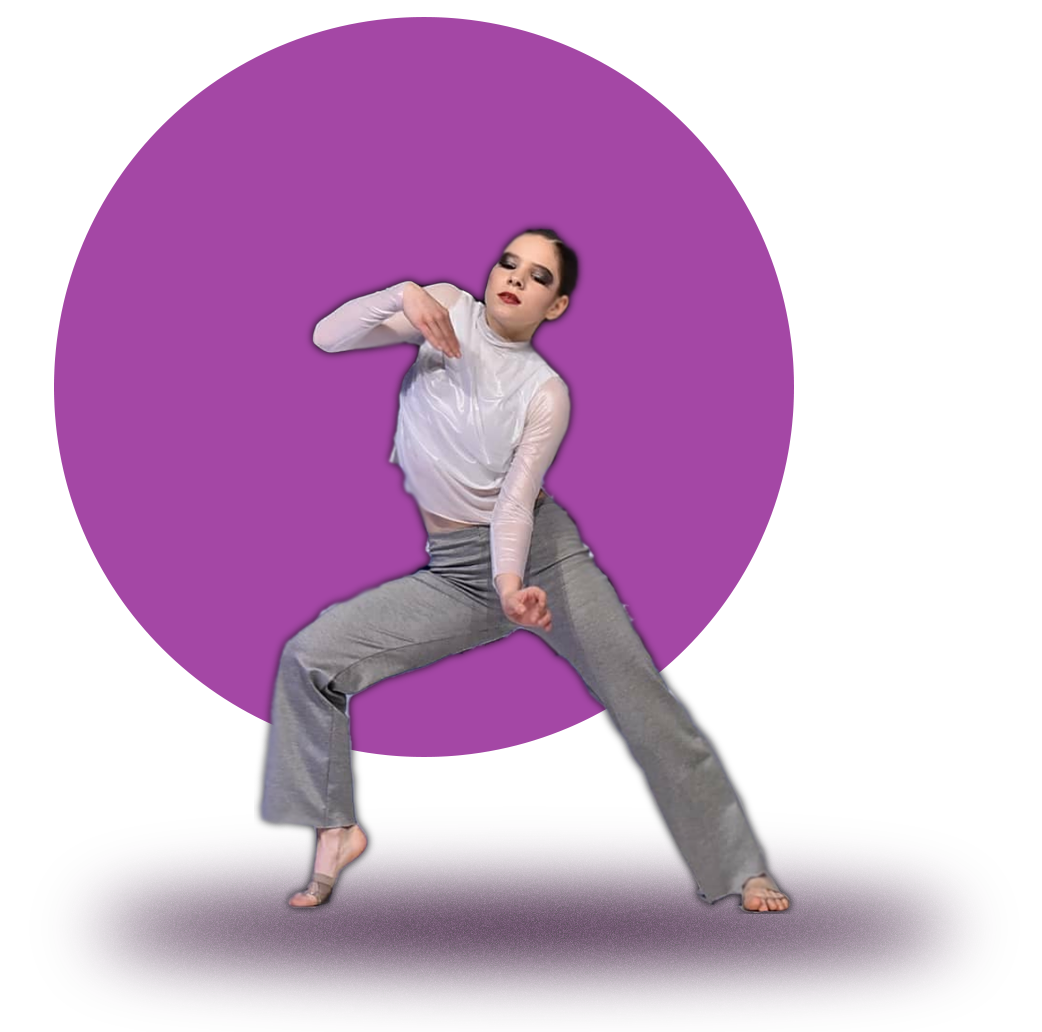
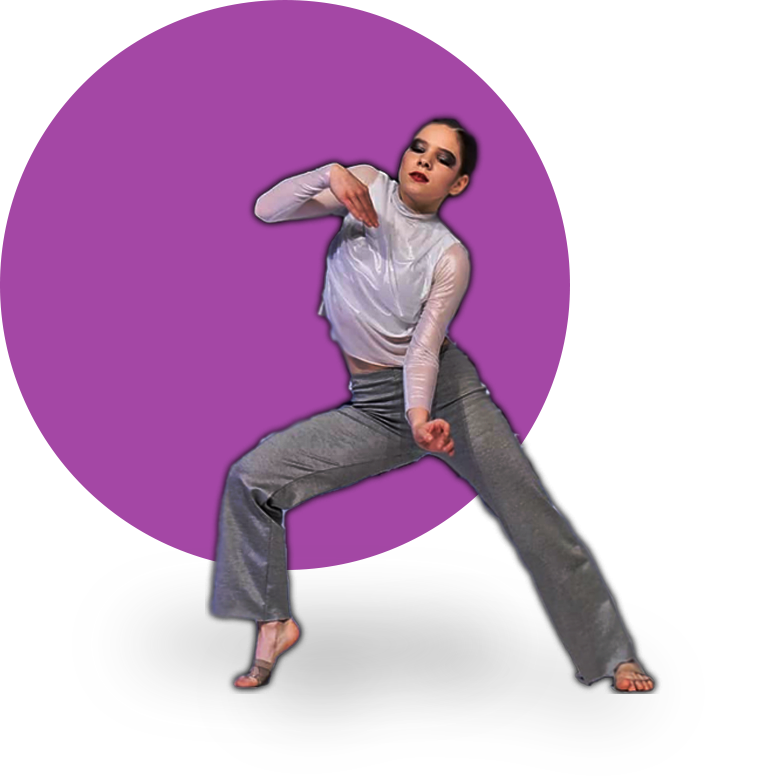
homepage/grid

diff --git a/src/styles/4-modules/_home.scss b/src/styles/4-modules/_home.scss
@@ -3,12 +3,11 @@
   height: 100vh;
   width: 100%;
   padding: 2em;
-  margin: 0 auto;
-  &:nth-child(1) { background-color: $light; }
+  // &:nth-child(1) { background-color: $light; }
   &:nth-child(2) { background-color: $primary-0; }
-  &:nth-child(3) { background-color: $light; }
+  // &:nth-child(3) { background-color: $light; }
   &:nth-child(4) { background-color: $primary-0; }
-  &:nth-child(5) { background-color: $light; }
+  // &:nth-child(5) { background-color: $light; }
   &:nth-child(3), &:nth-child(4), &:nth-child(5) {
    width: 100%;
    display: grid;
@@ -21,9 +20,79 @@
   width: 100%;
   height: 90%;
   display: grid;
-  grid-template-columns: 40% 60%;
   align-items: center;
-  article { text-align: justify; }
+  article {
+   justify-self: start;
+   // align-self: start;
+   max-width: 75ch; 
+   text-align: justify; 
+  }
+  img {
+   max-width: 450px;
+   justify-self: end;
+  }
+
+  @mixin mobile-screen {
+   grid-template-rows: 30% 70%;
+   grid-template-columns: auto;
+  }
+  @mixin tablet-screen {
+   grid-template-rows: auto;
+   grid-template-columns: 30% 70%;
+  }
+  @mixin desktop-screen {
+   grid-template-rows: auto;
+   grid-template-columns: 50% 50%;
+  }
+
+  @mixin xs-screen {
+   @include mobile-screen();
+  }
+  @mixin small-screen {
+   @include mobile-screen();
+   .article {
+    justify-content: start;
+    align-self: start;
+    border: 1px solid red;
+   }
+  }
+  @mixin medium-screen {
+   @include tablet-screen();
+   .article {
+    justify-content: start;
+    align-self: start;
+    border: 1px solid blue;
+   }
+  }
+  @mixin large-screen {
+   @include tablet-screen();
+   .article {
+    justify-content: start;
+    align-self: start;
+    border: 1px solid green;
+   }
+  }
+  @mixin xl-screen {
+   @include desktop-screen();
+   .article {
+    justify-content: start;
+    align-self: start;
+   }
+  }
+  @mixin xxl-screen {
+   @include desktop-screen();
+   .article {
+    justify-content: start;
+    align-self: start;
+   }
+   
+  }
+  @include respond-to(extrasmall-screens) { @include xs-screen(); }
+  @include respond-to(small-screens) {  @include small-screen(); }
+  @include respond-to(medium-screens) {  @include medium-screen(); }
+  @include respond-to(large-screens) {  @include large-screen(); }
+  @include respond-to(extralarge-screens) {  @include xl-screen(); }
+  @include respond-to(extraextralarge-screens) {  @include xxl-screen(); }
  }
 
  // 2. GALERIJA
@@ -80,14 +149,11 @@
    }
   }
  }
-// 5. Upis
-.upis {
- p {
-  font-size: 3em;
-  text-align: center;
+ // 5. Upis
+ .upis {
+  p {
+   font-size: 3em;
+   text-align: center;
+  }
  }
-}
-
-
-
 }

diff --git a/public/styles/main.css b/public/styles/main.css
@@ -218,8 +218,8 @@ h1, h2, h3, h4, h5, h6 {
 }
 
 p, a {
-  font-weight: 500;
-  line-height: 1.4;
+  font-weight: 600;
+  line-height: 1.15;
 }
 
 @media only screen and (min-width: 151px) and (max-width: 479px) {
@@ -780,22 +780,12 @@ footer .social .social__logos a img {
   height: 100vh;
   width: 100%;
   padding: 2em;
-  margin: 0 auto;
-}
-.home section:nth-child(1) {
-  background-color: #FBFBFB;
 }
 .home section:nth-child(2) {
   background-color: #A447A5;
 }
-.home section:nth-child(3) {
-  background-color: #FBFBFB;
-}
 .home section:nth-child(4) {
   background-color: #A447A5;
-}
-.home section:nth-child(5) {
-  background-color: #FBFBFB;
 }
 .home section:nth-child(3), .home section:nth-child(4), .home section:nth-child(5) {
   width: 100%;
@@ -806,11 +796,75 @@ footer .social .social__logos a img {
   width: 100%;
   height: 90%;
   display: grid;
-  grid-template-columns: 40% 60%;
   align-items: center;
 }
 .home .home-1 article {
+  justify-self: start;
+  max-width: 75ch;
   text-align: justify;
+}
+.home .home-1 img {
+  max-width: 450px;
+  justify-self: end;
+}
+@media only screen and (min-width: 151px) and (max-width: 479px) {
+  .home .home-1 {
+    grid-template-rows: 30% 70%;
+    grid-template-columns: auto;
+  }
+}
+@media only screen and (min-width: 321px) and (max-width: 479px) {
+  .home .home-1 {
+    grid-template-rows: 30% 70%;
+    grid-template-columns: auto;
+  }
+  .home .home-1 .article {
+    justify-content: start;
+    align-self: start;
+    border: 1px solid red;
+  }
+}
+@media only screen and (min-width: 481px) and (max-width: 719px) {
+  .home .home-1 {
+    grid-template-rows: auto;
+    grid-template-columns: 30% 70%;
+  }
+  .home .home-1 .article {
+    justify-content: start;
+    align-self: start;
+    border: 1px solid blue;
+  }
+}
+@media only screen and (min-width: 721px) and (max-width: 919px) {
+  .home .home-1 {
+    grid-template-rows: auto;
+    grid-template-columns: 30% 70%;
+  }
+  .home .home-1 .article {
+    justify-content: start;
+    align-self: start;
+    border: 1px solid green;
+  }
+}
+@media only screen and (min-width: 921px) and (max-width: 1199px) {
+  .home .home-1 {
+    grid-template-rows: auto;
+    grid-template-columns: 50% 50%;
+  }
+  .home .home-1 .article {
+    justify-content: start;
+    align-self: start;
+  }
+}
+@media only screen and (min-width: 1200px) {
+  .home .home-1 {
+    grid-template-rows: auto;
+    grid-template-columns: 50% 50%;
+  }
+  .home .home-1 .article {
+    justify-content: start;
+    align-self: start;
+  }
 }
 .home .galerija-news {
   height: 90vh;

diff --git a/public/html/Home.html b/public/html/Home.html
@@ -9,7 +9,6 @@
    <p>Plesna radionica ''moDuS klub'' uspješno radi pod ovim nazivom od rujna 1994.godine. Posebnu pažnju posvećujemo radu sa predškolskom i školskom djecom koja rade po programu verificiranom od strane Ministarstva kulture i prosvjete RH. Većina školske djece koja je pohađala program naše Plesne radionice u predškolskoj dobi, nastavlja usvajati osnove različitih plesnih tehnika: klasičnog baleta, modern, jazz dance-a, hip hopa te osnovnih elemenata ritmičko športske gimnastike i akrobatike.</p>
   </article>
  </div>
-
 </section>
 
 <!-- 2. GALLERY -->

diff --git a/src/styles/2-base/_typography.scss b/src/styles/2-base/_typography.scss
@@ -121,8 +121,8 @@ h1, h2, h3, h4, h5, h6 {
  margin: 0;
 }
 p, a{
- font-weight: 500; 
- line-height: 1.4;
+ font-weight: 600; 
+ line-height: 1.15;
 }
 
 @include respond-to(extrasmall-screens) {
